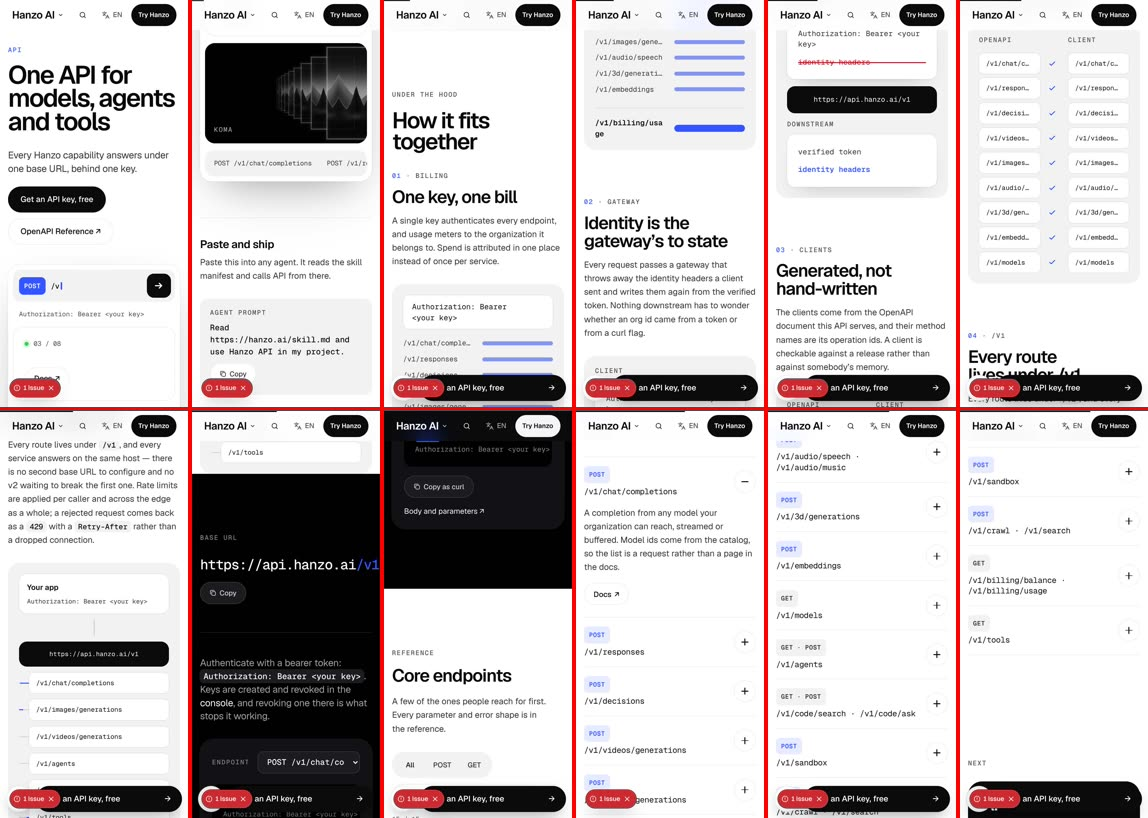
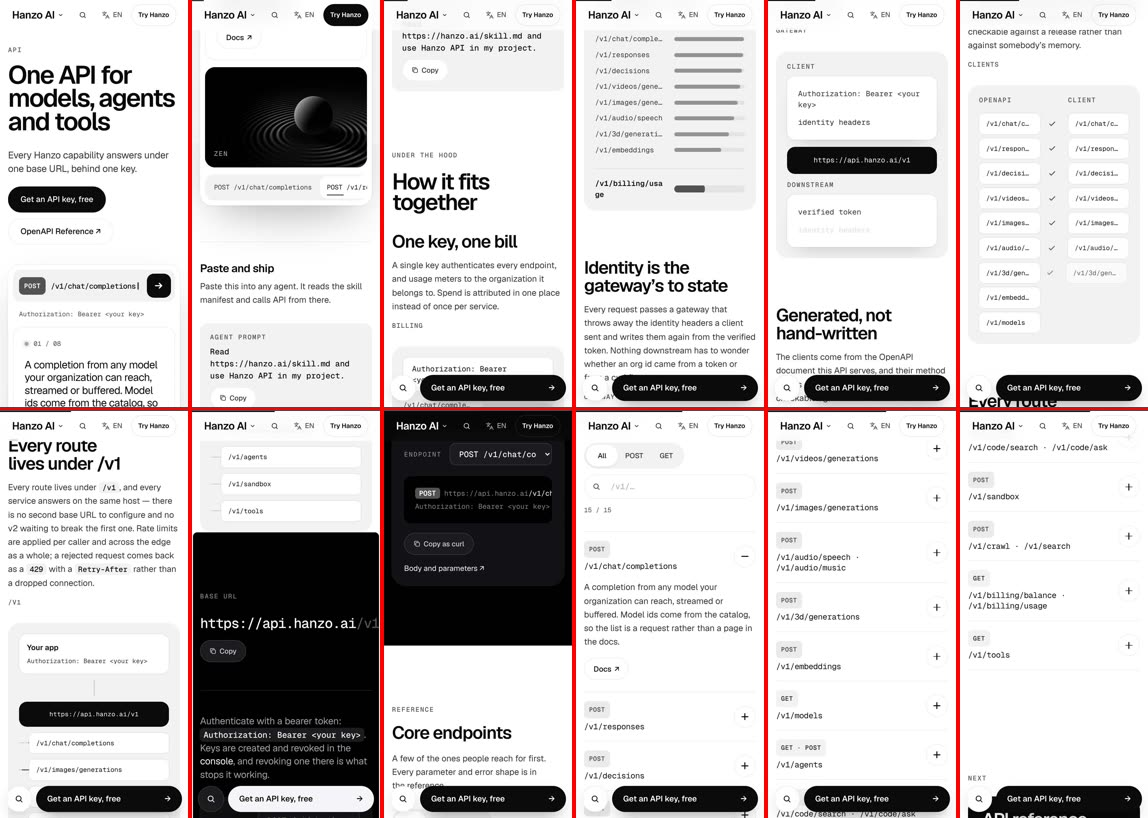
review: /api 6/10 at 4b53974 (hero below fold, floating ask, no card)
Claude-Session: https://claude.ai/code/session_01DqUybDEA5FZ4ZbAGVya4QA

diff --git a/docs/review/api.md b/docs/review/api.md
@@ -1,45 +1,52 @@
 # /api — James-eye review
 
 Verdict: 6/10
-First complaint: "The thing that's meant to be the hero is cut in half at the bottom of my screen. And why is everything blue?"
+First complaint: "The thing that's meant to be the hero is cut in half at the bottom of my screen, and there's a pill bar floating over the text."
 
-Walked 7 Nov, page file at `a1dcdca` (`components/pages/ApiPage.jsx`, `ApiPage.css`, shared `v2/AppStage`, `AppScenes`, `v2/x-edison/AppLines`), on the preview of main plus the Apps 1 branch. The full walk was filmed at `f44badd`. Merge `a1dcdca` only moved the headline component's import and fixed the tab-pill CSS, and a fresh hero shot at `a1dcdca` matches. Filmed moving at 1470×801 and 375×812 (wheel and finger scroll, dwell on every screen, hover and press on desktop, taps on phone), plus reduced motion and JS off. Stills: `review/api/desktop-walk.jpg`, `review/api/phone-walk.jpg`.
+Walked 7 Nov, page file at `4b53974` (`components/pages/ApiPage.jsx`, `ApiPage.css`, shared `v2/AppStage`, `AppScenes`, `v2/x-edison/AppLines`), on the 14:43 preview of main plus the Apps branches, judged against `docs/MASTER.md` and `docs/JAMES.md`.
+- **This build:** a 9-second first-screen film at 1470×801 and 375×812 with no input, hover and press on the primary, a full scroll pass at both widths, reduced motion, JS off and phone tap targets.
+- **The earlier `f44badd` walk:** the full moving walk, with the same layout, is where the phone layout-shift figure comes from.
+
+Stills: `review/api/desktop-walk.jpg`, `review/api/phone-walk.jpg`, `review/api/desktop-first-9s.jpg`.
 
 ## What works
-- The idea is right. A big console types each endpoint after `https://api.hanzo.ai`, streams what it returns, and plays the real model film beside it (Koma, Iro and the rest). That is Hanzo's own media giving the colour.
-- "How it fits together" is a real Apple pinned scene: four chapters, the text holds while the panel changes. One comes in, one goes out.
-- The base URL in a dark room at display size is a strong moment. Copy confirms ("Copy" turns to "Copied", announced). "Copy as curl" exists.
-- Desktop: 60fps, CLS 0, every hover answers. Parity: text 80/80, links 18/18. Reduced motion leaves 0 running animations.
+- The idea is right. A big console types each endpoint after `https://api.hanzo.ai`, streams what it returns, and plays the real model film beside it (Enso, Koma, Iro…). Colour now comes only from those films: the page is monochrome and taste.py passes.
+- "How it fits together" is a real pinned scene: four chapters, the text holds while the panel changes.
+- The base URL in a black room is a strong moment. Copy confirms. "Copy as curl" exists.
+- Press scales .98, hover darkens, every desktop hover answers. JS off hides 0 of 39 text blocks. Reduced motion leaves 0 running. Parity: text 80/80, links 18/18.
+
+## Card check
+- `docs/coverage/api.md` does not exist, so the verdict is capped at 7. All 18 parts are missing a `Done here:` line.
 
 ## The 11 answers
-1. **Sells in 5 seconds, moves within 1 second?** The headline sells. But at 1470×801 the console, which is the hero object, starts at y≈690 and only its top half shows. Above the fold, after the headline cut-in, the only thing moving is a blinking caret. The typing and streaming happen below the fold.
-2. **One in, one out, or a document?** The pinned chapters are a scene. "Core endpoints" is a long accordion list of 15 rows, which is a document, though the detail sits behind clicks.
-3. **A real visual object in every section?** Mostly. The console with model film, the dark base URL and the route diagram, yes. But the chapter panels are grey and blue bars standing in for UI: skeleton stripes, not real product.
-4. **One ask, sticky after the hero?** Phone: yes, "Get an API key, free" bottom bar. Desktop: no sticky ask, only the site header's "Try Hanzo", a different ask. The page never repeats "Get an API key, free" at the end. It closes on two equal "NEXT" cards (API reference, Getting started).
-5. **Every hover and press answers, no jumps?** Hovers answer. Press on "Get an API key, free" only darkens; there is no .98 scale or 1px drop. On phone, tapping some endpoint rows (`/v1/decisions`, `/v1/embeddings`, `/v1/billing/balance`) did nothing visible.
-6. **Overlaps, font swap, layout shift?** Phone layout shift is 0.46, which is huge: the console changes height as each answer streams, and the "Paste and ship" section, the chips and the film jump under your thumb. Desktop 0. No font swap. JS off: 8 of 39 text blocks stay invisible. Phone targets under 44px: "console" (25px), "Body and parameters" (22px).
-7. **Which reference, is its motion there?** Apple product page (pinned chapters, product as hero): yes, apart from the hero sitting under the fold. BRIEF §5.6 developer hero is "a terminal with a streamed curl and Copy, Get API key beside it". It is close, but there is no request and response you can read and copy in the first screen, and no curl / Python / JS switch.
-8. **Different from neighbours?** Partly. It shares its stage, scenes and type kit with /cli, /bot, /desktop and /gen. All five open with a mono kicker over a Display headline. The cobalt here sits beside /desktop's blue and /operative's blue.
-9. **18 areas (PLAN-COMPONENTS)?** See below. No `docs/coverage/api.md`.
+1. **Sells in 5 seconds, moves within 1 second?** The words sell, but at 1470×801 the console starts at y≈690, so only its top strip shows. On the slow machine the h1 was the last thing to arrive (about 7 s), after the lede and buttons. Above the fold, the only mover is a caret.
+2. **One in, one out, or a document?** The chapters are a scene. "Core endpoints" is a 15-row accordion list, a document, though the detail opens on click.
+3. **A real visual object in every section?** Mostly. The chapter panes are partly grey bars standing in for UI ("One key, one bill" is a list of stripes), not real product.
+4. **One ask, in the sticky header?** No. The header says "Try Hanzo", but the page's ask is "Get an API key, free". That ask rides in a floating pill at the bottom of the desktop screen, over the chapter text, the black room and the endpoint list. The page also never repeats the ask at the end; it closes on two equal "NEXT" cards.
+5. **Every hover and press answers, no jumps?** Desktop yes. On phone, some endpoint rows gave no visible answer to a tap. "console" (25px) and "Body and parameters" (22px) are under the 44px target.
+6. **Overlaps, font swap, layout shift?** The floating pill overlaps content at 1470×801. On phone the console changes height as each answer streams, and the sections below jump: 0.46 layout shift on the full walk (`f44badd`, same layout).
+7. **Which reference, is its motion there?** Apple product page (pinned chapters): yes. MASTER §4.6 developer hero is a code block with the existing request, the streamed response and Copy beside the key ask. That is not in the first screen, and there are no language tabs.
+8. **Different from neighbours?** Partly. Its stage, chapters and kit are shared with /bot, /desktop and /cli; the hero (console plus model film) is its own.
+9. **18 parts (MASTER §2)?** No card. See below.
 10. **Banned tells?** Yes:
-    - eyebrows over the h1 ("API" in blue) and over headlines ("UNDER THE HOOD", "01 · BILLING", "BASE URL", "REFERENCE", "NEXT");
-    - a cobalt UI accent on the kicker, method pills, chapter bars, "/v1" and the round arrow buttons;
-    - a green live dot;
-    - a browser-default `<select>` for the endpoint picker in the dark room.
+    - labels directly above the h1 ("API") and above h2s ("UNDER THE HOOD", "BASE URL", "REFERENCE", "NEXT");
+    - a floating pill bar over content;
+    - a 128px h1 filling the first screen while the hero object is pushed off it.
 11. **Copy untouched?** Yes (parity clean).
 
-## Missing from the 18 areas
-- **2.3 First impression:** h1, lede, primary and the hero object do not fit 1470×801 together. No closing Band in Hanzo's words.
-- **2.4 Conversion:** no desktop sticky ask. The ask is not repeated after proof or at the end. The press state is missing.
-- **2.7 Visual system:** a cobalt accent breaks the 0-hue rule. The chapter "UI" is placeholder bars.
-- **2.8 Components:** native select; some phone rows give no tap feedback.
-- **2.11 / 2.12:** phone CLS 0.46; small tap targets; hidden text with JS off.
-- **2.16 Developer:** no readable request and response in the hero, no language switch.
-- **2.18:** no `Persona:` / `Goal:` / `CTA:` lines, no `data-cta`.
+## Missing from the 18 parts
+- **Card:** no coverage card, and no `Persona:` / `Goal:` / `CTA:` / metric lines.
+- **Part 3 First impression:** the hero object is not in the first screen. No closing `Band`.
+- **Part 4 Conversion:** the header ask does not match; the ask floats; it is not repeated after proof or at the end.
+- **Part 7 Visual system:** labels over headings; placeholder bars in the chapter panes.
+- **Part 8 Components:** the dark room's endpoint picker is a browser select.
+- **Part 11 Mobile:** phone layout shift; small targets.
+- **Part 16 Developer:** no readable request and response pair in the hero; no curl / Python / JS tabs.
 
 ## Fixes (in order)
-1. **Bring the console into the first screen at 1470×801.** Shrink the h1 to about 96px, or put the console beside the headline (7/5 split), so the path typing and the streamed answer play above the fold within the first second.
-2. **Fix the phone jump.** Give the console a fixed height (the longest answer) so nothing below it moves while it streams. Layout shift must read 0.
-3. **Take the blue out.** Method pills, bars, "/v1" and the arrow buttons go ink or white alpha steps. Colour only from the model films. Drop the green dot (use a shape or the word). Delete every kicker above a headline.
-4. **One ask, everywhere.** Add the desktop sticky "Get an API key, free" once the hero button leaves. End on a closing Band that repeats it as the one solid button, with "OpenAPI Reference" as a text row. Add press: scale .98.
-5. **Make the chapters real.** Replace the grey and blue placeholder bars with the actual request, header and response text from the page (the bearer line, the route list, the client names), and swap the native endpoint select for the page's own styled list.
+1. **Bring the console into the first screen.** Put the h1 at rest size (52px per MASTER §3.1, or a little larger as the moment) beside the console, so the path typing and the streamed answer play above the fold within the first second. Paint the h1 first; let the mask start from its final place.
+2. **The ask goes in the header.** "Get an API key, free" in the sticky header for this page (via `lib/cta.js`; write `docs/requests/api.md` for the shared part). Turn off the floating desktop pill. End on a `Band` that repeats the ask once.
+3. **Fix the phone jump.** Give the console a fixed height (its longest answer) so nothing below moves while it streams.
+4. **Delete every label sitting directly above a heading.** Keep the mono style for chapter captions and figure labels.
+5. **Make the chapters real.** Replace the grey bars with the page's own request lines, route names and client names. Swap the browser select in the dark room for the page's own styled list.
+6. **Write `docs/coverage/api.md`**: 18 parts, each with real evidence.
